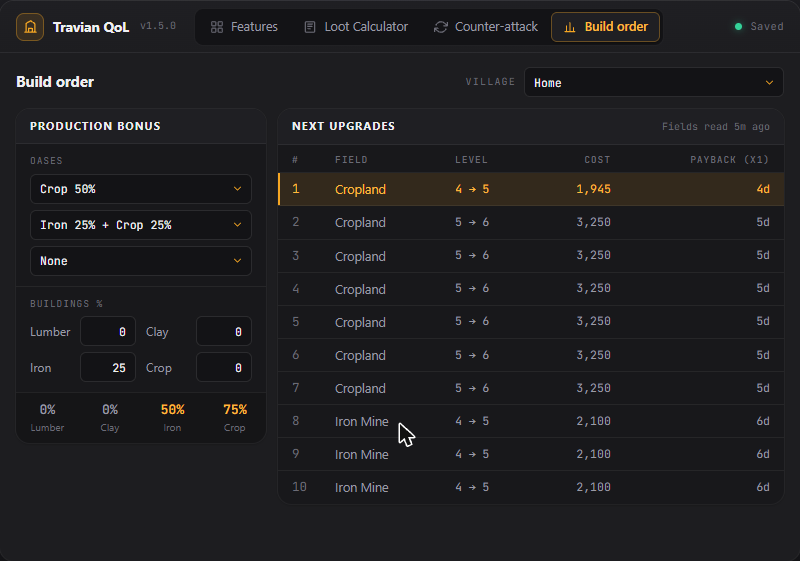
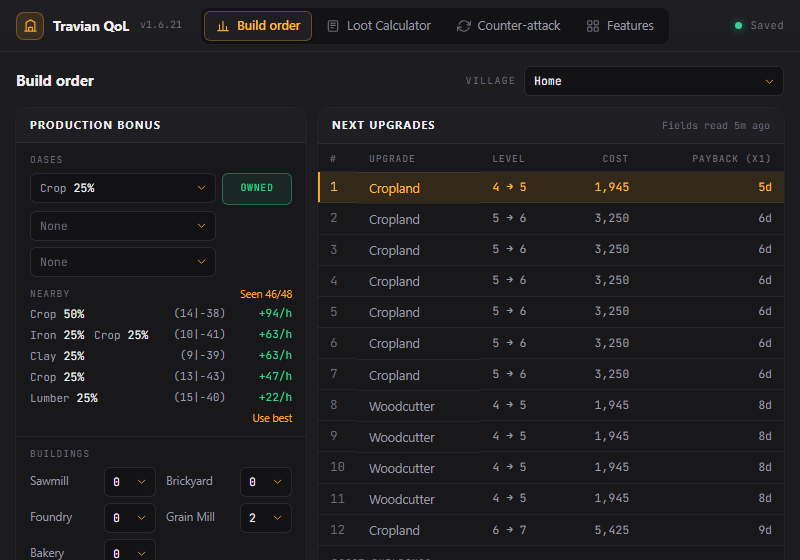
fix(qol): 1.6.22 nearby oasis coordinates without ligature
Updates the Build order screenshot to show the Nearby block. The
screenshot shows resource names in place of game sprites.

diff --git a/projects/travian-extensions/extensions/TravianQoL/options/build-order.css b/projects/travian-extensions/extensions/TravianQoL/options/build-order.css
@@ -45,7 +45,7 @@
 /* Nearby oases: free oases in annex range, best first. */
 .bo-near { display: grid; gap: 4px; margin-top: 4px; }
 .bo-near__row { display: grid; grid-template-columns: minmax(0, 1fr) auto 60px; gap: 6px; align-items: center; font-size: 11px; }
-.bo-near__xy { font-family: var(--font-mono); color: var(--text-secondary); }
+.bo-near__xy { font-family: var(--font-mono); font-variant-ligatures: none; color: var(--text-secondary); }
 .bo-near__gain { font-family: var(--font-mono); text-align: right; color: var(--emerald); }
 .bo-near > .bo-link { justify-self: end; }
 

diff --git a/projects/travian-extensions/CHANGELOG.md b/projects/travian-extensions/CHANGELOG.md
@@ -22,6 +22,10 @@
 
 - Fix: the extension failed to load because `analyzer.js` contained a non-UTF-8 byte.
 
+## Travian QoL 1.6.22 — 2026-11-25
+
+- Build order: Nearby coordinates no longer render `|-` as a ligature. Updated Build order screenshot.
+
 ## Travian QoL 1.6.21 — 2026-11-25
 
 - Build order: **Nearby** under the oasis slots ranks the free oases within 3 tiles of the village (the 7×7 annex range) by extra production per hour for that village. Oasis tiles are recorded when you hover or open them on the map (**Seen n/48**). **Use best** fills empty slots with the best ones as planned.
